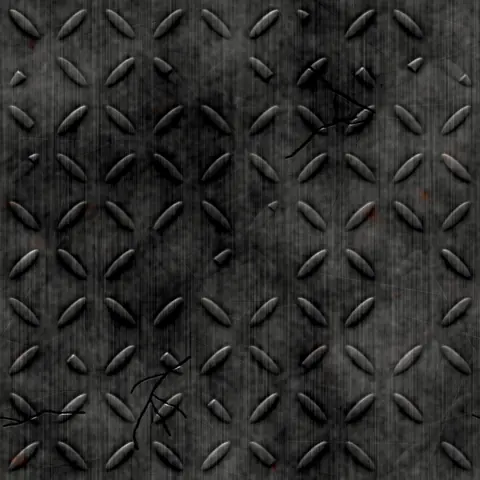
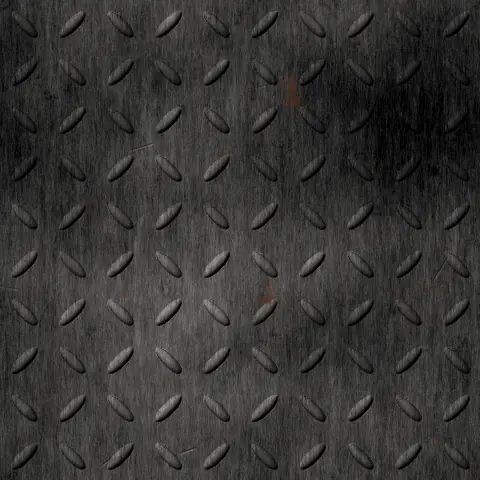
Chapa nueva sin grietas, variante con balazos y barra inferior sin corte
- plate.webp regenerada (mosaico sin costuras): lágrimas en relieve, cepillado, mugre,
  abolladuras suaves y arañazos finos en lugar de las grietas negras.
- shots.webp: balazos con labio de metal arrancado, abolladura, hollín y chorreón de
  óxido, con transparencia; se pone encima de la chapa en algunas fichas, el marcador
  y la pantalla de carga.
- Barra inferior: el tinte y el óxido del desgarro empiezan donde acaba la barra, sin
  línea; lo mismo en la cabecera.
- Bandas queda marcada en la barra y en el menú también dentro de una banda o ficha.

diff --git a/src/Punkartuchera.UI/wwwroot/css/punk-theme.css b/src/Punkartuchera.UI/wwwroot/css/punk-theme.css
@@ -192,8 +192,8 @@ h1:focus { outline: none; }
 .punk-topbar__rust {
     position: absolute; inset: 0; pointer-events: none;
     background: var(--punk-tex-rust) left 40px bottom 0 / 470px;
-    -webkit-mask-image: linear-gradient(to bottom, rgba(0, 0, 0, .28), rgba(0, 0, 0, .2) 45%, rgba(0, 0, 0, .85));
-    mask-image: linear-gradient(to bottom, rgba(0, 0, 0, .28), rgba(0, 0, 0, .2) 45%, rgba(0, 0, 0, .85));
+    -webkit-mask-image: linear-gradient(to bottom, rgba(0, 0, 0, .28), rgba(0, 0, 0, .2) 45%, #000);
+    mask-image: linear-gradient(to bottom, rgba(0, 0, 0, .28), rgba(0, 0, 0, .2) 45%, #000);
 }
 .punk-topbar > :not(.punk-topbar__rust) { position: relative; z-index: 1; }
 /* Borde rasgado: la misma chapa recortada (::after), comida por el óxido hacia la punta,
@@ -261,14 +261,14 @@ h1:focus { outline: none; }
     .tabbar::after {
         content: ""; position: absolute; inset: 0; z-index: -1; pointer-events: none;
         background: var(--punk-tex-rust) left 90px top 0 / 470px;
-        -webkit-mask-image: linear-gradient(to top, rgba(0, 0, 0, .2), rgba(0, 0, 0, .25) 45%, rgba(0, 0, 0, .85));
-        mask-image: linear-gradient(to top, rgba(0, 0, 0, .2), rgba(0, 0, 0, .25) 45%, rgba(0, 0, 0, .85));
+        -webkit-mask-image: linear-gradient(to top, rgba(0, 0, 0, .2), rgba(0, 0, 0, .25) 45%, #000);
+        mask-image: linear-gradient(to top, rgba(0, 0, 0, .2), rgba(0, 0, 0, .25) 45%, #000);
     }
     .tabbar::before {
         content: ""; position: absolute; left: 0; right: 0; top: -13px; height: 14px; pointer-events: none;
         background-color: var(--punk-bar);
         background-image:
-            linear-gradient(to top, rgba(40, 18, 8, .1), rgba(40, 18, 8, .3)),
+            linear-gradient(to top, rgba(40, 18, 8, 0), rgba(40, 18, 8, .3)),
             var(--punk-tex-rust), var(--punk-tex-grain), var(--punk-tex-plate);
         background-size: auto, 470px, auto, auto;
         /* la última fila del borde pisa la primera de la barra: la textura empieza ahí */
@@ -900,9 +900,10 @@ textarea.field__input { resize: vertical; }
     background-image:
         var(--punk-tex-rivet-rust), var(--punk-tex-rivet-rust), var(--punk-tex-rivet-rust), var(--punk-tex-rivet-rust),
         linear-gradient(to bottom, rgba(255, 255, 255, .09), rgba(255, 255, 255, 0) 35%, rgba(0, 0, 0, 0) 65%, rgba(0, 0, 0, .25)),
+        var(--punk-tex-shots),
         var(--punk-tex-grain), var(--punk-tex-plate);
-    background-repeat: no-repeat, no-repeat, no-repeat, no-repeat, no-repeat, repeat, repeat;
-    background-position: left 5px top 5px, right 5px top 5px, left 5px bottom 5px, right 5px bottom 5px, 0 0, 0 0, 0 0;
+    background-repeat: no-repeat, no-repeat, no-repeat, no-repeat, no-repeat, repeat, repeat, repeat;
+    background-position: left 5px top 5px, right 5px top 5px, left 5px bottom 5px, right 5px bottom 5px, 0 0, -30px -20px, 0 0, 0 0;
     border: 2px solid var(--punk-black);
     box-shadow: inset 0 1px 0 rgba(255, 255, 255, .18), inset 1px 0 0 rgba(255, 255, 255, .06), inset -1px 0 0 rgba(0, 0, 0, .5), var(--punk-shadow);
     transform: rotate(-1.5deg);
@@ -1023,9 +1024,10 @@ textarea.field__input { resize: vertical; }
     background-image:
         var(--punk-tex-rivet-rust),
         linear-gradient(to bottom, rgba(255, 255, 255, .07), rgba(255, 255, 255, 0) 40%),
+        var(--plate-shots, linear-gradient(transparent, transparent)),
         var(--punk-tex-grain), var(--punk-tex-plate);
-    background-repeat: no-repeat, no-repeat, repeat, repeat;
-    background-position: right 2px top 2px, 0 0, left bottom, left bottom;
+    background-repeat: no-repeat, no-repeat, repeat, repeat, repeat;
+    background-position: right 2px top 2px, 0 0, var(--shots-pos, 0 0), left bottom, left bottom;
     border: 2px solid var(--punk-black);
     border-bottom: 0;
     box-shadow: inset 0 1px 0 rgba(255, 255, 255, .14), inset 1px 0 0 rgba(255, 255, 255, .05), inset -1px 0 0 rgba(0, 0, 0, .45);
@@ -1076,6 +1078,9 @@ textarea.field__input { resize: vertical; }
     color: var(--punk-ink);
     clip-path: polygon(0 0, 100% 0, 100% 97%, 96% 100%, 74% 98.6%, 52% 100%, 27% 98.8%, 6% 100%, 0 98%);
 }
+/* Variante acribillada: algunas fichas llevan balazos en la chapa */
+.datacard:nth-child(3n + 2) { --plate-shots: var(--punk-tex-shots); --shots-pos: right -330px top -122px; }
+.datacard:nth-child(5n + 4) { --plate-shots: var(--punk-tex-shots); --shots-pos: right -250px top -118px; }
 /* Cada ficha enseña otro trozo de papel, con otro tono y la luz por otro lado */
 .datacard {
     --paper-light-card: linear-gradient(to right, rgba(255, 250, 235, .1), rgba(255, 250, 235, 0) 40%, rgba(70, 35, 8, 0) 65%, rgba(70, 35, 8, .1));

diff --git a/src/Punkartuchera.UI/wwwroot/css/match.css b/src/Punkartuchera.UI/wwwroot/css/match.css
@@ -87,9 +87,10 @@
     background-image:
         var(--punk-tex-rivet-rust), var(--punk-tex-rivet-rust), var(--punk-tex-rivet-rust), var(--punk-tex-rivet-rust),
         linear-gradient(to bottom, rgba(255, 255, 255, .08), rgba(255, 255, 255, 0) 40%, rgba(0, 0, 0, .22)),
+        var(--punk-tex-shots),
         var(--punk-tex-grain), var(--punk-tex-plate);
-    background-repeat: no-repeat, no-repeat, no-repeat, no-repeat, no-repeat, repeat, repeat;
-    background-position: left 3px top 3px, right 3px top 3px, left 3px bottom 3px, right 3px bottom 3px, 0 0, 0 0, 0 0;
+    background-repeat: no-repeat, no-repeat, no-repeat, no-repeat, no-repeat, repeat, repeat, repeat;
+    background-position: left 3px top 3px, right 3px top 3px, left 3px bottom 3px, right 3px bottom 3px, 0 0, -120px -40px, 0 0, 0 0;
     border: 2px solid var(--punk-black);
     box-shadow: inset 0 1px 0 rgba(255, 255, 255, .16), inset -1px 0 0 rgba(0, 0, 0, .5), var(--punk-shadow);
 }

diff --git a/src/Punkartuchera.UI/wwwroot/css/punk-textures.css b/src/Punkartuchera.UI/wwwroot/css/punk-textures.css
@@ -14,6 +14,8 @@
     --punk-tex-fibre: url("../img/tex/fibre.webp");
     --punk-tex-metal: url("../img/tex/metal.webp");
     --punk-tex-plate: image-set(url("../img/tex/plate.webp") 2x);
+    /* Balazos con su abolladura, hollín y chorreón de óxido, con transparencia: va encima de la chapa */
+    --punk-tex-shots: image-set(url("../img/tex/shots.webp") 1.4x);
     --punk-tex-speckle: url("../img/tex/speckle.webp");
     /* Manchas de óxido con transparencia, para poner encima de la chapa */
     --punk-tex-rust: url("../img/tex/rust.webp");
